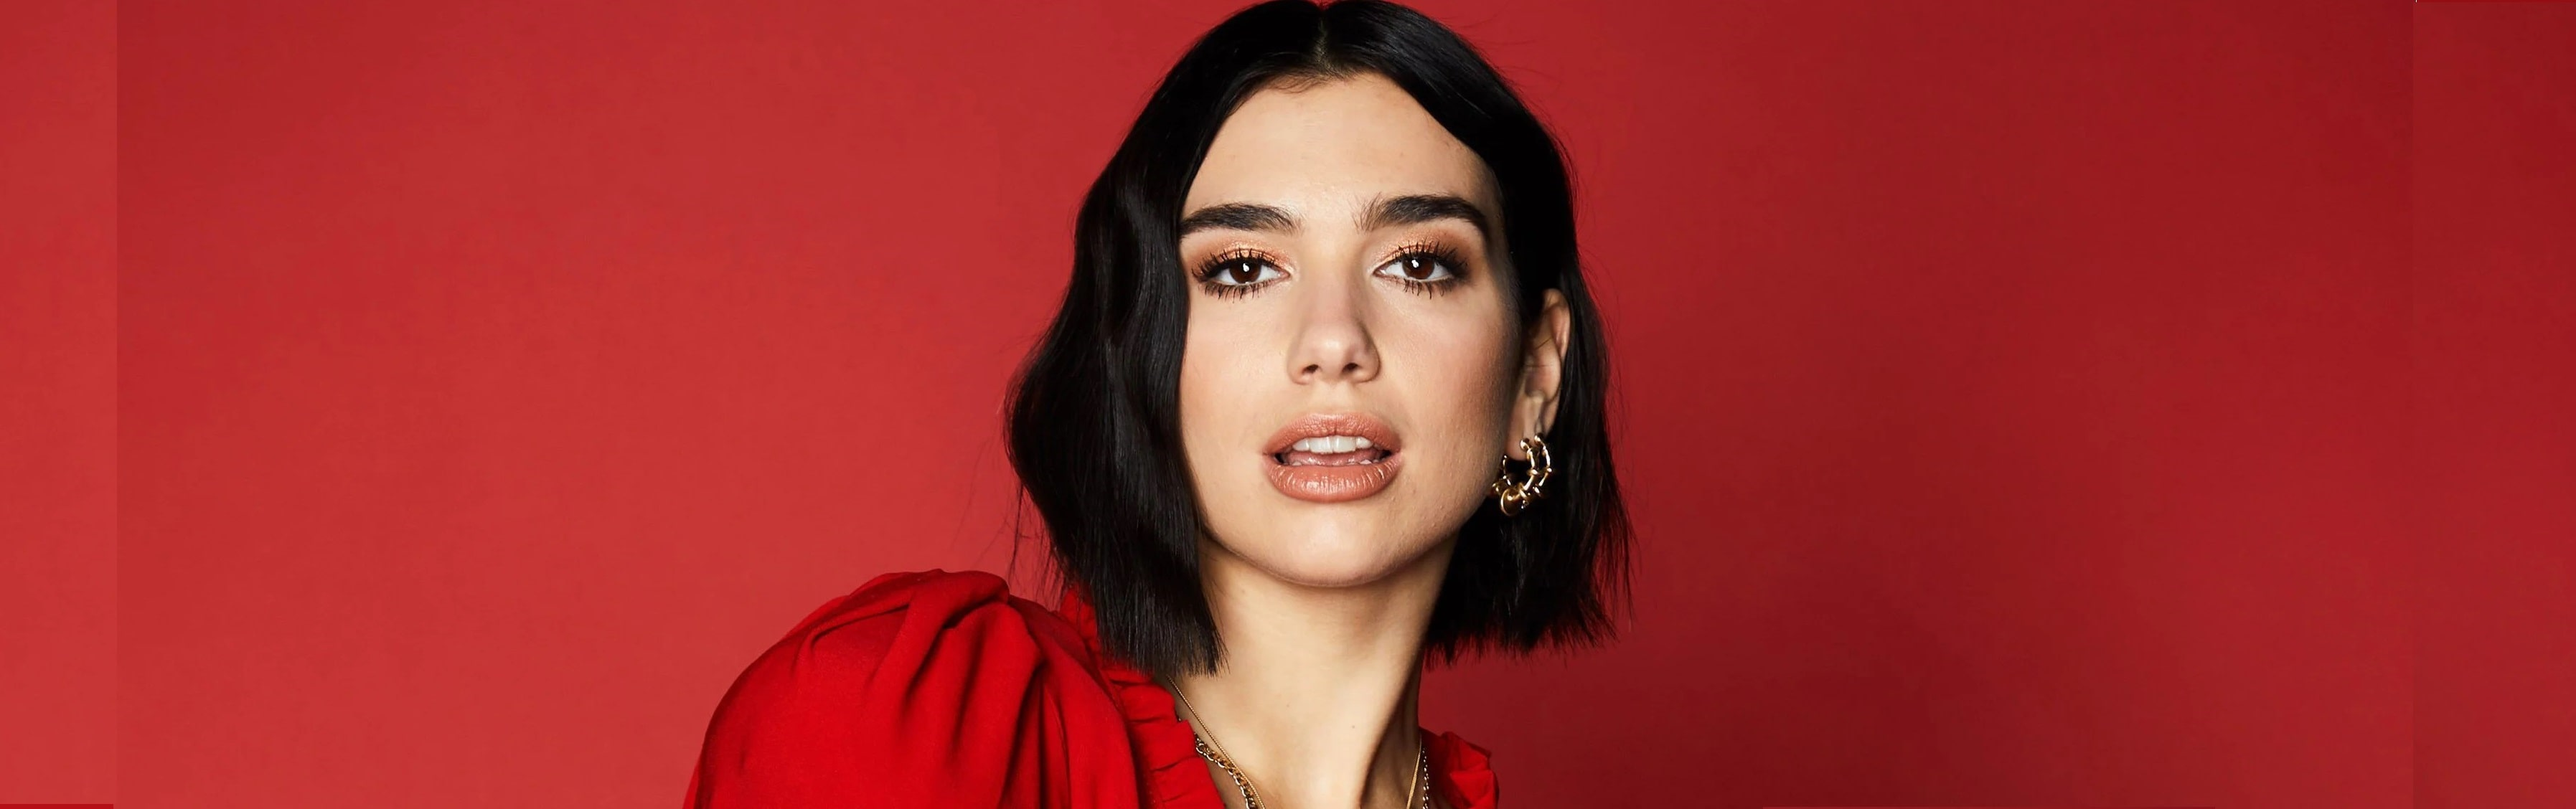
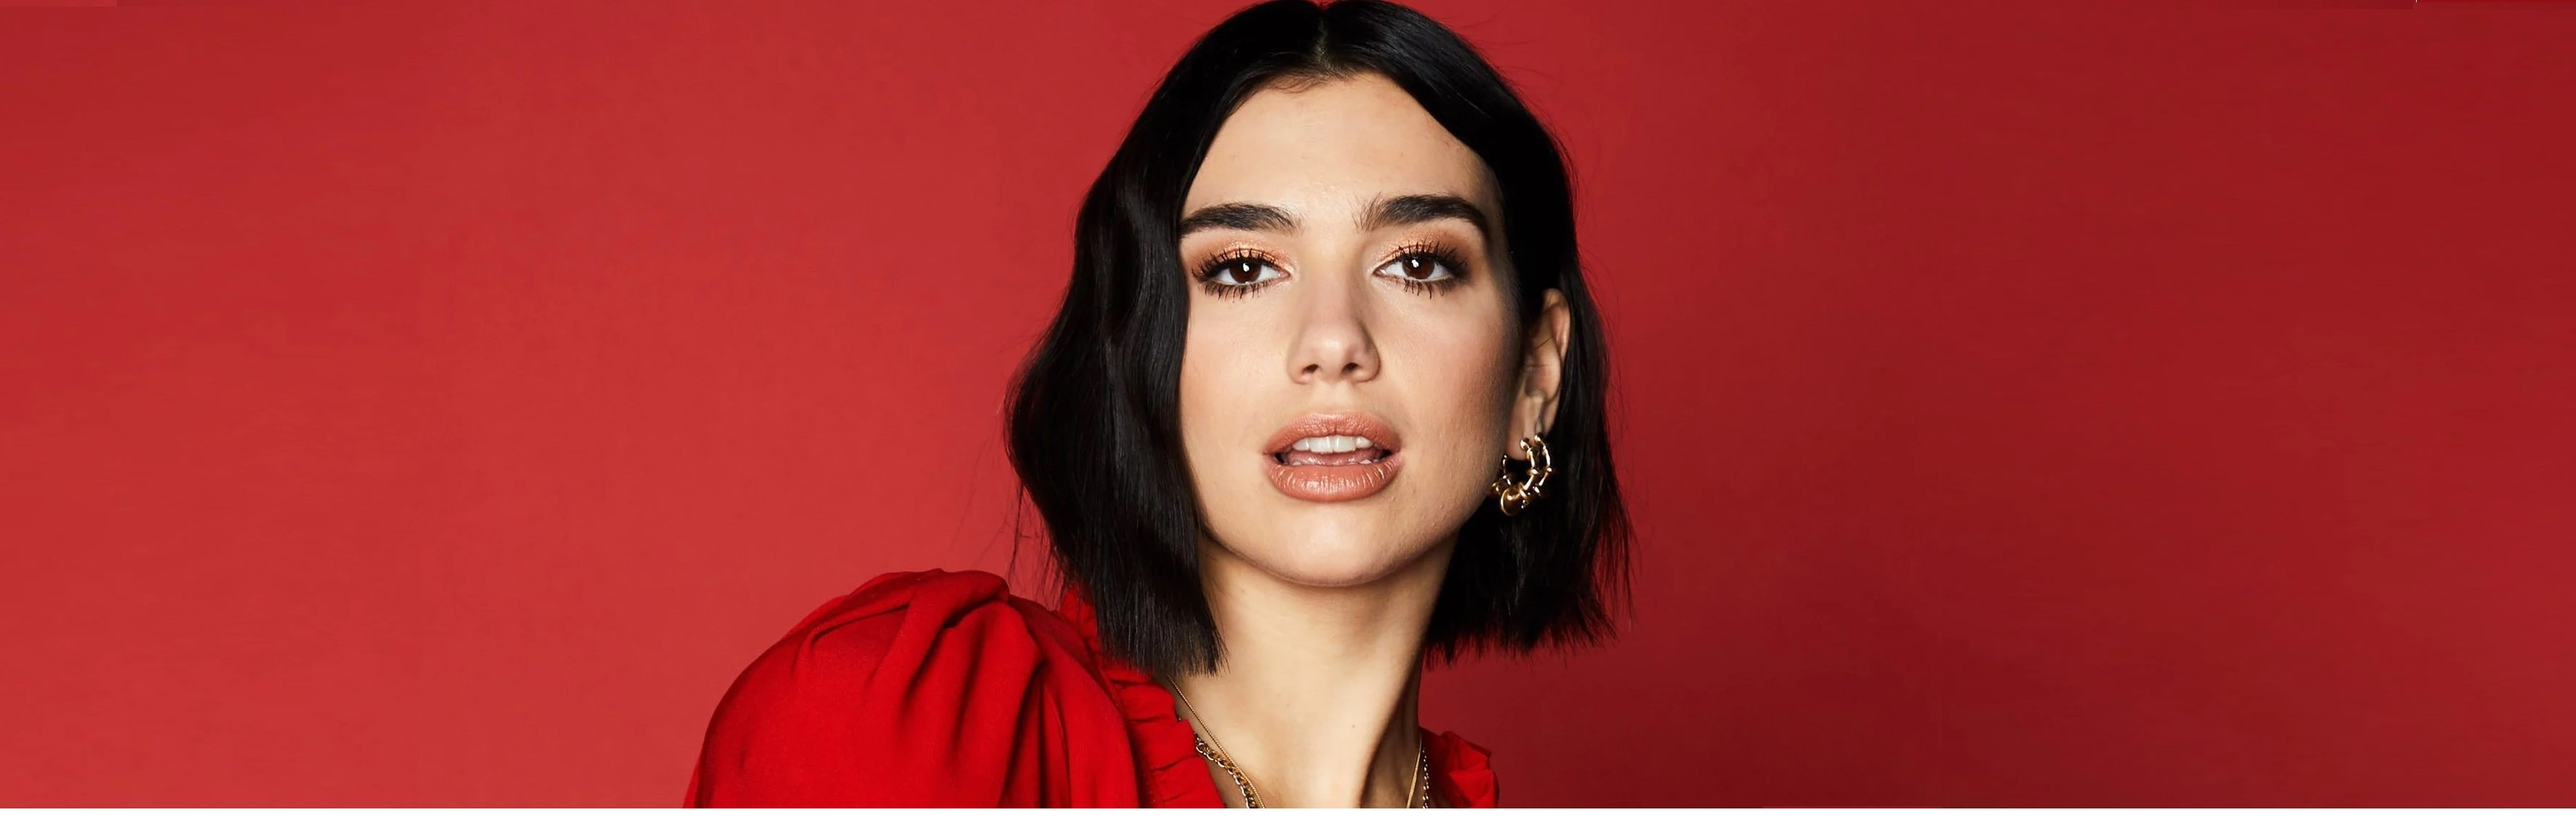
product description modified

diff --git a/Ecommerce/src/app/home/pages/home-page/home-page.component.html b/Ecommerce/src/app/home/pages/home-page/home-page.component.html
@@ -13,12 +13,12 @@
   <div class="carousel-inner" role="listbox">
     <div class="carousel-item active">
       <div class="view">
-        <img class="d-block w-80" src="/assets/pics/12.jpg" alt="First slide">
+        <img class="d-block w-80" src="/assets/pics/12.png" alt="First slide">
         <div class="mask rgba-light-light"></div>
       </div>
       <div class="carousel-caption">
         <h1 class="h1-responsive"> <b>DON'T TAKE YOUR MAN OUT</b></h1>
-        <h5 class="text-dark">Just visit our website</h5>
+        <h5 class="text-light ml-5 font-weight-bold">Just visit our website</h5>
       </div>
     </div>
     <div class="carousel-item">

diff --git a/Ecommerce/src/app/app-routing.module.ts b/Ecommerce/src/app/app-routing.module.ts
@@ -1,6 +1,5 @@
 import { NgModule } from '@angular/core';
 import { RouterModule, Routes } from '@angular/router';
-import { PublicComponent } from './public/public.component';
 
 const routes: Routes = [
   { path: '',   redirectTo: '/public', pathMatch: 'full' },
